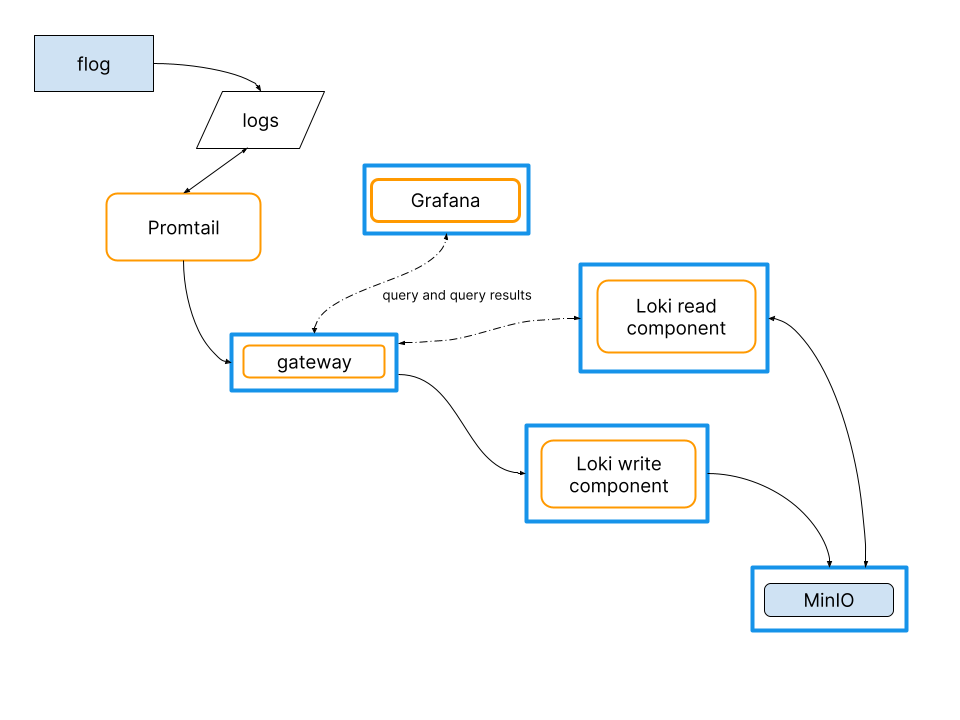
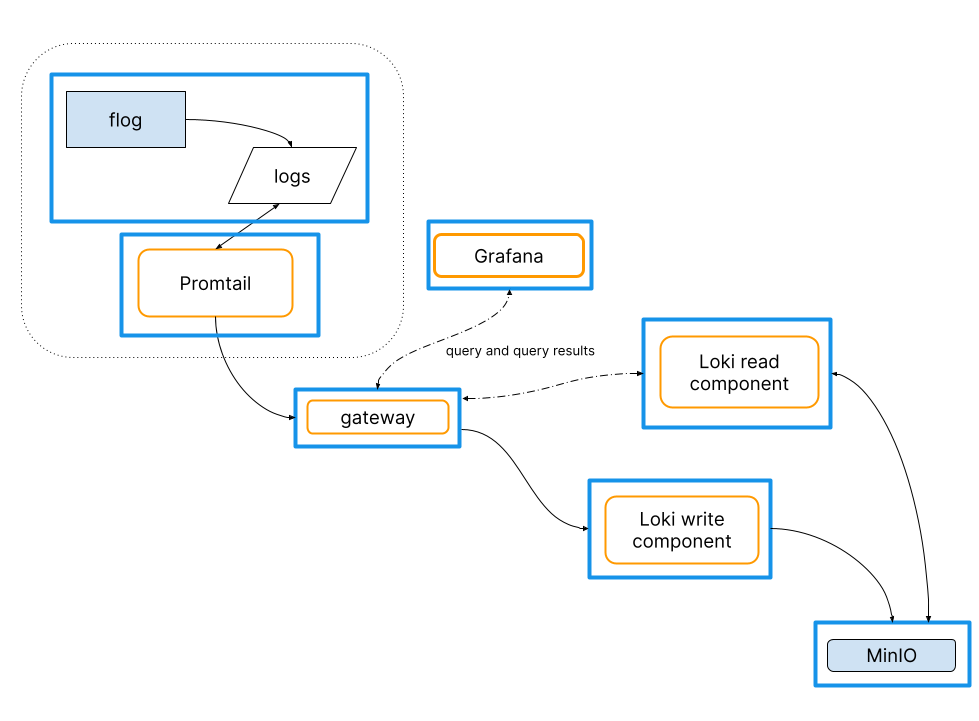
Revise guide to put all parts into Docker containers.

Changed region(s): [[0.0312, 0.0306, 1.0, 0.9778]]

diff --git a/docs/sources/getting-started/_index.md b/docs/sources/getting-started/_index.md
@@ -15,8 +15,8 @@ The cluster is intended for testing, development, and evaluation;
 it will not meet most production requirements.
 
 The test environment runs the [flog](https://github.com/mingrammer/flog) app to generate log lines.
-Promtail is the environment's agent (or client) that captures the log lines and pushes them to the Loki cluster through a gateway.
-In a typical environment, the log-generating app and the agent run in different locations. This guide simulates that by running Loki in Docker containers while flog and the Promtail agent run outside of Docker containers.
+Promtail is the test environment's agent (or client) that captures the log lines and pushes them to the Loki cluster through a gateway.
+In a typical environment, the log-generating app and the agent run together, but in locations distinct from the Loki cluster. This guide runs each piece of the test environment in Docker containers.
 
 In this guide, Grafana provides a way to pose and visualize queries against the logs stored in Loki.
  
@@ -27,22 +27,20 @@ The test environment uses Docker compose to instantiate these services, each in 
 - One [single scalable deployment](../fundamentals/architecture/deployment-modes/) mode **Loki** instance has:
     - One Loki read component
     - One Loki write component
-- **Minio** is the storage back end.
+    - **Minio** is Loki's storage back end.
 - The **gateway** receives requests and redirects them to the appropriate container based on the request's URL.
+- **Flog** generates log lines.
+- **Promtail** scrapes the log lines from flog, and pushes them to Loki through the gateway.
 - **Grafana** provides visualization of the log lines captured within Loki.
-
-The flog app and Promtail are run on your local machine,
-to make them easy to modify.
 
 ## Prerequisites
 
 - [Docker](https://docs.docker.com/install)
 - [Docker Compose](https://docs.docker.com/compose/install)
-- The [flog](https://github.com/mingrammer/flog) app, to be run outside of a Docker environment.
 
-## Obtain and configure the test environment
+## Obtain the test environment
 
-1. Create a directory for the test environment; make that new directory your current working directory:
+1. Create a directory called `evaluate-loki` for the test environment; make that new directory your current working directory:
     ```bash
     mkdir evaluate-loki
     cd evaluate-loki
@@ -50,46 +48,21 @@ to make them easy to modify.
 1. Download `loki-config.yaml`, `promtail-local-config.yaml`, and `docker-compose.yaml`:
 
     ```bash
-    wget https://raw.githubusercontent.com/grafana/loki/main/production/simple-scalable/loki-config.yaml -O loki-config.yaml
-    wget https://raw.githubusercontent.com/grafana/loki/main/production/simple-scalable/promtail-local-config.yaml -O promtail-local-config.yaml
-    wget https://raw.githubusercontent.com/grafana/loki/main/production/simple-scalable/docker-compose.yaml -O docker-compose.yaml
+    wget https://raw.githubusercontent.com/grafana/loki/main/examples/getting-started/loki-config.yaml -O loki-config.yaml
+    wget https://raw.githubusercontent.com/grafana/loki/main/examples/getting-started/promtail-local-config.yaml -O promtail-local-config.yaml
+    wget https://raw.githubusercontent.com/grafana/loki/main/examples/getting-started/docker-compose.yaml -O docker-compose.yaml
     ```
-1. The `docker-compose.yaml` relies on the Loki docker driver, aliased to `loki-compose`, to send logs to the Loki cluster. If this driver is not installed on your system, you can install it by running the following:
-
-    ```bash
-    docker plugin install grafana/loki-docker-driver:latest --alias loki-compose --grant-all-permissions
-    ```
-    If this driver is already installed, but under a different alias, you will have to change `docker-compose.yaml` to use the correct alias.
-1. Modify the Promtail configuration file to scrape the output of the flog app. Edit `promtail-local-config.yaml`. Change the `__path__` value `/path/to/flog.log` to be the path to your current working directory, which is the test environment's directory.
-
-    Within Promtail configuration, the `scrape_configs` YAML block specifies the logs to scrape.
-
-1. Download and install Promtail.
-    1. On the [Loki](https://github.com/grafana/loki) home page, locate and click on the most recent release.  At the bottom of the releases's page are the Assets.  Find and download the Promtail ZIP file for your operating system and architecture.
-    1. Uncompress the binary.  For example:
-        ```bash
-        unzip promtail-linux-amd64.zip
-        ```
 
 ## Deploy the test environment
 
-All shell commands are issued from the test environment's directory.
+All shell commands are issued from the `evaluate-loki` directory.
 
-1. Deploy Grafana and the Loki cluster with `docker-compose`:
+1. With `evaluate-loki` as the current working directory, deploy the test environment using `docker-compose`:
     ```bash
     docker-compose up
     ```
 1. (Optional) Verify that the Loki cluster is up and running. The read component returns `ready` when you point a web browser at http://localhost:3101/ready. The message `Query Frontend not ready: not ready: number of schedulers this worker is connected to is 0` will show prior to the read component being ready.
 The write component returns `ready` when you point a web browser at http://localhost:3102/ready. The message `Ingester not ready: waiting for 15s after being ready` will show prior to the write component being ready.
-1. Run the `flog` app to start generating log lines.
-This example generates 100 log lines in JSON format, at intervals of 5 seconds:
-    ```bash
-    flog -f json -o flog.log -t log -n 100 -d 5s
-    ```
-1. Run Promtail to capture the log lines and push them to the Loki cluster. Your binary's name may be different than this example:
-    ```bash
-    ./promtail-linux-amd64 -config.file promtail-local-config.yaml
-    ```
 
 ## Use Grafana and the test environment
 
@@ -98,37 +71,37 @@ This guide uses Grafana to query and observe the log lines captured in the Loki 
 Use Grafana to query and observe the log lines captured in the Loki cluster by navigating a browser to http://localhost:3000.
 The Grafana instance has Loki configured as a [datasource](https://grafana.com/docs/grafana/latest/datasources/loki/).
 
-Click on the Grafana instance's [Explore](https://grafana.com/docs/grafana/latest/explore/) icon to bring up the log browser.
+Click on the Grafana instance's [Explore](https://grafana.com/docs/grafana/latest/explore/) icon to bring up the explore pane.
 
-Use the Explore dropdown menu to choose the Loki datasource.
+Use the Explore dropdown menu to choose the Loki datasource and bring up the Loki query browser.
 
 Use Grafana to try some queries.
 Enter your query into the **Log browser** box, and click on the blue **Run query** button.
 
 To see all the log lines that flog has generated:
 ```
-{job="flog"}
+{container="evaluate-loki_flog_1"}
 ```
 
 The flog app will generate log lines for invented HTTP requests.
 To see all `GET` log lines, enter the query:
 
 ```
-{job="flog"} |= "GET"
+{container="evaluate-loki_flog_1"} |= "GET"
 ```
 For `POST` methods:
 ```
-{job="flog"} |= "POST"
+{container="evaluate-loki_flog_1"} |= "POST"
 ```
 
 To see every log line with the value of `401`: 
 ```
-{job="flog"} |= "401"
+{container="evaluate-loki_flog_1"} |= "401"
 
 ```
 To see every log line other than those the value `401`: 
 ```
-{job="flog"} != "401"
+{container="evaluate-loki_flog_1"} != "401"
 ```
 
 ## Stop and clean up the test environment
@@ -137,13 +110,12 @@ To break down the test environment:
 
 - Close the Grafana browser window
 
-- Stop and remove all the Docker containers. With current working directory of the test environment:
+- Stop and remove all the Docker containers. With `evaluate-loki` as the current working directory:
     ```bash
     docker-compose down
     ```
 
-- Use SIGINT to stop Promtail.
+## Modifying the flog app output
 
-- Use SIGINT to stop the flog app, if it hasn't already stopped generating log lines.
+Within Promtail configuration, the `scrape_configs` YAML block specifies the logs to scrape.
 
-- If you wish to restart the test environment, remove the generated `flog.log` file.
